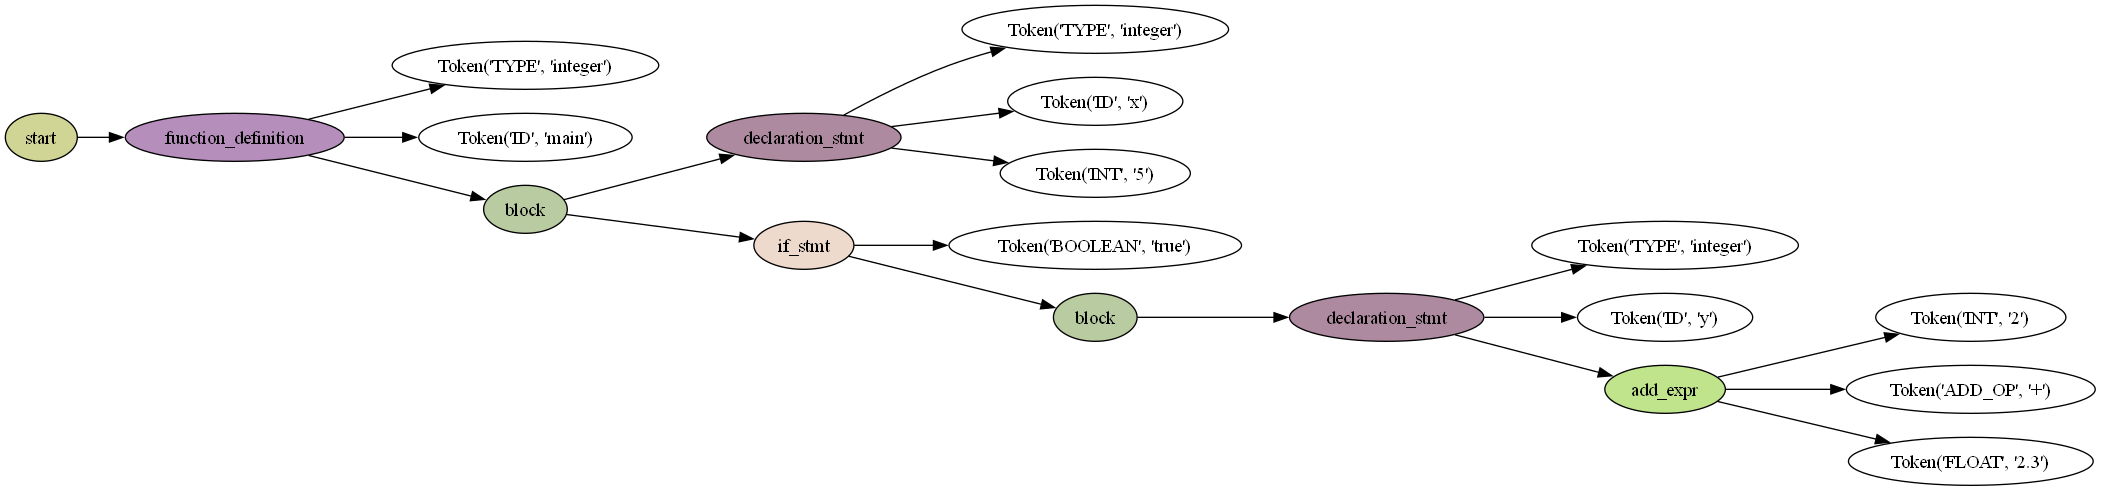
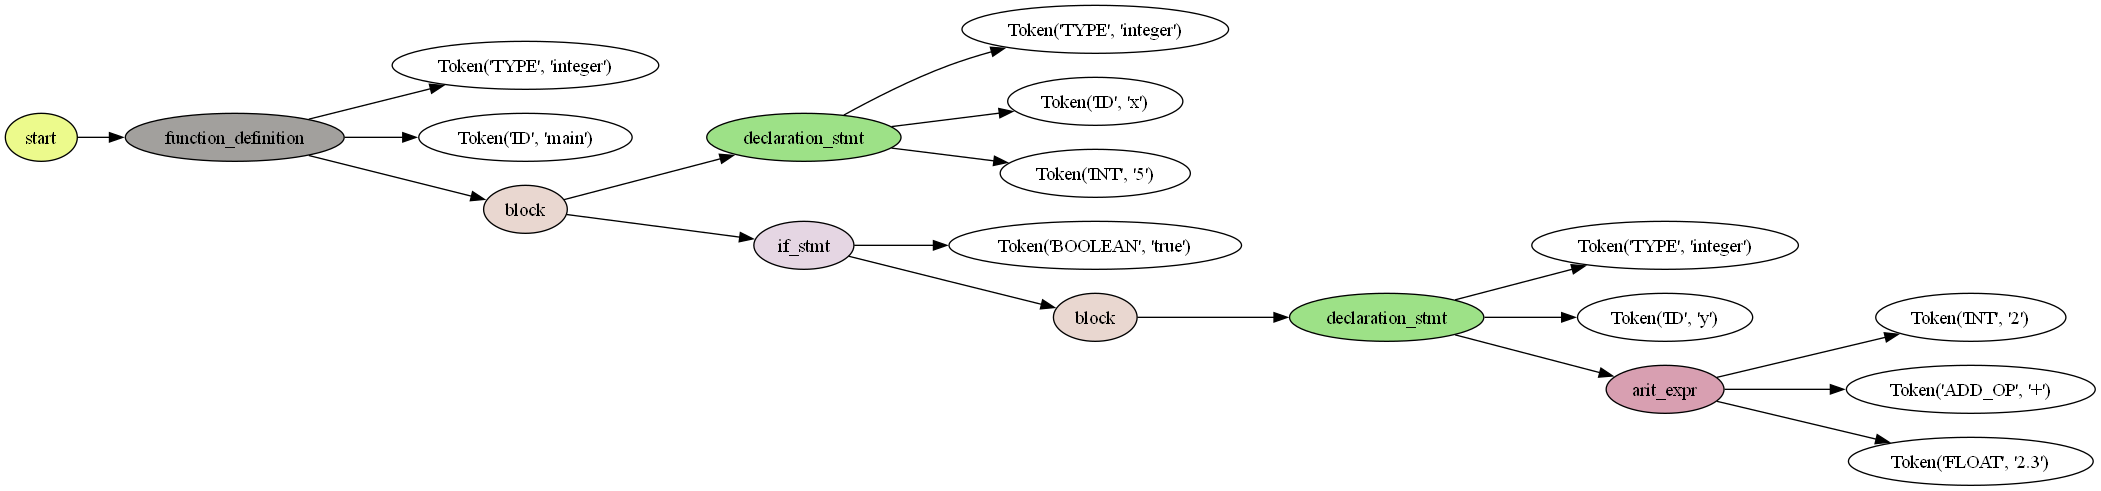
semantics fix

diff --git a/src/p4/interpreter.py b/src/p4/interpreter.py
@@ -71,27 +71,12 @@ class Interpreter:
         return not bool(boolean)
 
     ## Binary Expressions
-    def visit_add_expr(self, node):
+    def visit_arit_expr(self, node):
         result = self.visit(node.children[0])
 
         for i in range(1, len(node.children), 2):
             operator = node.children[i]
-            operand = self.visit(node.children[i +1])
-
-            if operator == "+":
-                result += operand
-            elif operator == "-":
-                result -= operand
-            else:
-                raise Exception(f'Unsupported operator: {operator}. Expected + or -.')
-        return result
-
-    def visit_mul_expr(self, node):
-        result = self.visit(node.children[0])
-
-        for i in range(1, len(node.children), 2):
-            operator = node.children[i]
-            operand = self.visit(node.children[i+1])
+            operand = self.visit(node.children[i + 1])
 
             if operator == "*":
                 result *= operand
@@ -99,11 +84,15 @@ class Interpreter:
                 result /= operand
             elif operator == "%":
                 result %= operand
+            elif operator == "-":
+                result -= operand
+            elif operator == "+":
+                result += operand
             else:
-                raise Exception(f'Unsupported operator: {operator}, expected *, /, or %.')
+                raise Exception(f'Unsupported operator: {operator}, expected *, /, %, + or -')
         return result
 
-    def visit_equality_expr(self, node):
+    def visit_compare_expr(self, node):
         value1 = self.visit(node.children[0])
         value2 = self.visit(node.children[2])
         operator = node.children[1]
@@ -112,15 +101,7 @@ class Interpreter:
             return value1 == value2
         elif operator == "!=":
             return value1 != value2
-        else:
-            raise Exception(f'Unsupported operator: {operator}, expected == or !=.')
-
-    def visit_relational_expr(self, node):
-        value1 = self.visit(node.children[0])
-        value2 = self.visit(node.children[2])
-        operator = node.children[1]
-
-        if operator == "<":
+        elif operator == "<":
             return value1 < value2
         elif operator == ">":
             return value1 > value2
@@ -129,7 +110,7 @@ class Interpreter:
         elif operator == ">=":
             return value1 >= value2
         else:
-            raise Exception(f'Unsupported operator: {operator}, expected <, >, <=, or >=.')
+            raise Exception(f'Unsupported operator: {operator}, expected ==, !=, <, >, <=, or >=.')
 
     def visit_and_expr(self, node):
         result = self.visit(node.children[0])

diff --git a/src/p4/parse_tree_processor.py b/src/p4/parse_tree_processor.py
@@ -94,18 +94,12 @@ class ParseTreeProcessor(Transformer):
         return Tree('expr_stmt', items)
 
     def add_expr(self, items):
-        if len(items) == 1:
-            return items[0]
-        left = items[0]
-        i = 1
-        while i < len(items):
-            op = items[i]
-            right = items[i + 1]
-            left = Tree('add_expr', [left, op, right])
-            i += 2
-        return left
+        return Tree('arit_expr', items)
 
     def mul_expr(self, items):
+        return Tree('arit_expr', items)
+
+    def arit_expr(self, items):
         if len(items) == 1:
             return items[0]
         left = items[0]
@@ -113,7 +107,7 @@ class ParseTreeProcessor(Transformer):
         while i < len(items):
             op = items[i]
             right = items[i + 1]
-            left = Tree('mul_expr', [left, op, right])
+            left = Tree('arit_expr', [left, op, right])
             i += 2
         return left
 
@@ -142,10 +136,13 @@ class ParseTreeProcessor(Transformer):
         return left
 
     def equality_expr(self, items):
-        return items[0] if len(items) == 1 else Tree('equality_expr', items)
+        return Tree('compare_expr', items)
 
     def relational_expr(self, items):
-        return items[0] if len(items) == 1 else Tree('relational_expr', items)
+        return Tree('compare_expr', items)
+
+    def compare_expr(self, items):
+        return items[0] if len(items) == 1 else Tree('compare_expr', items)
 
     def uminus(self, items):
         return Tree('uminus', items)
